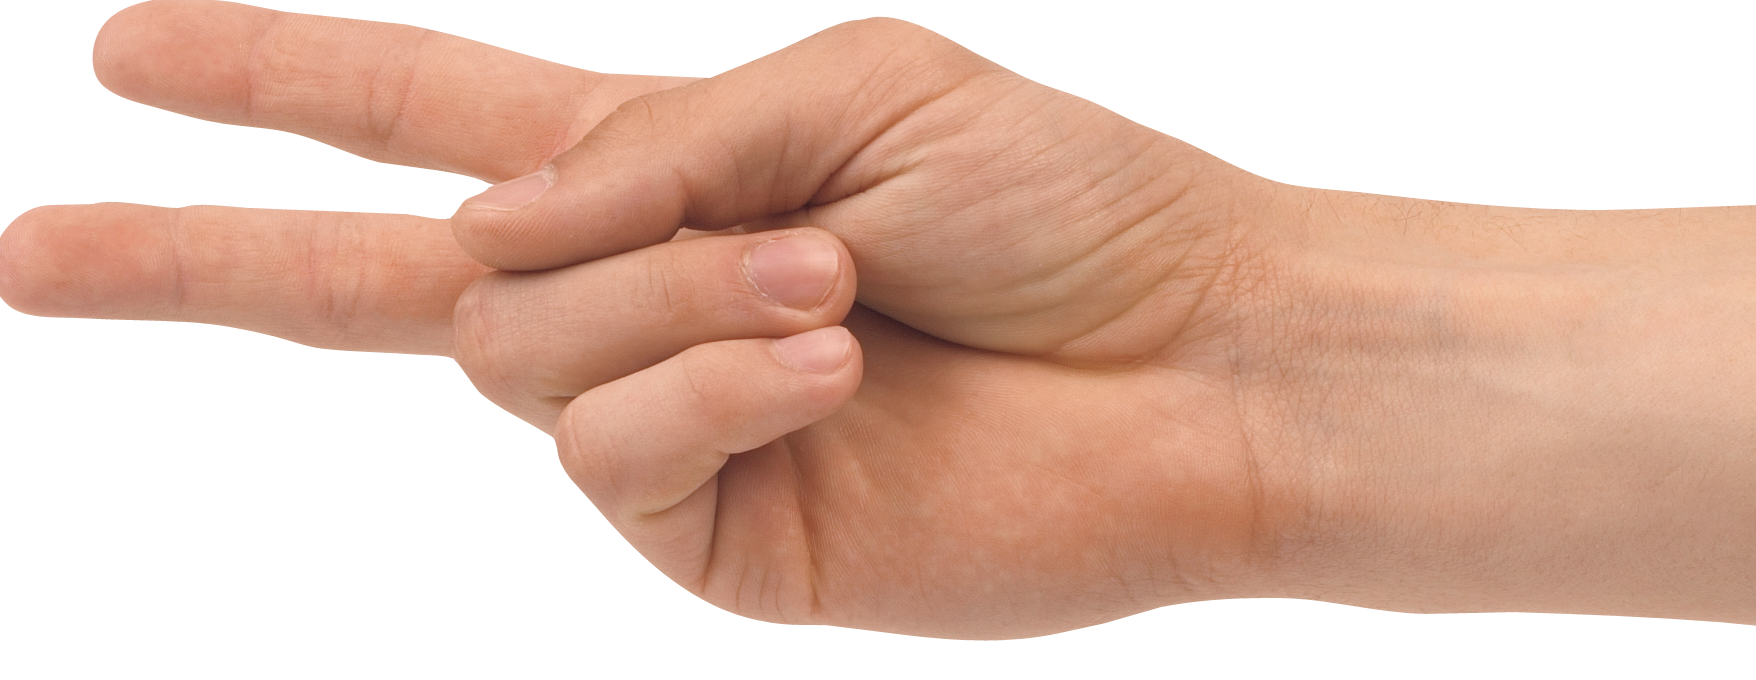
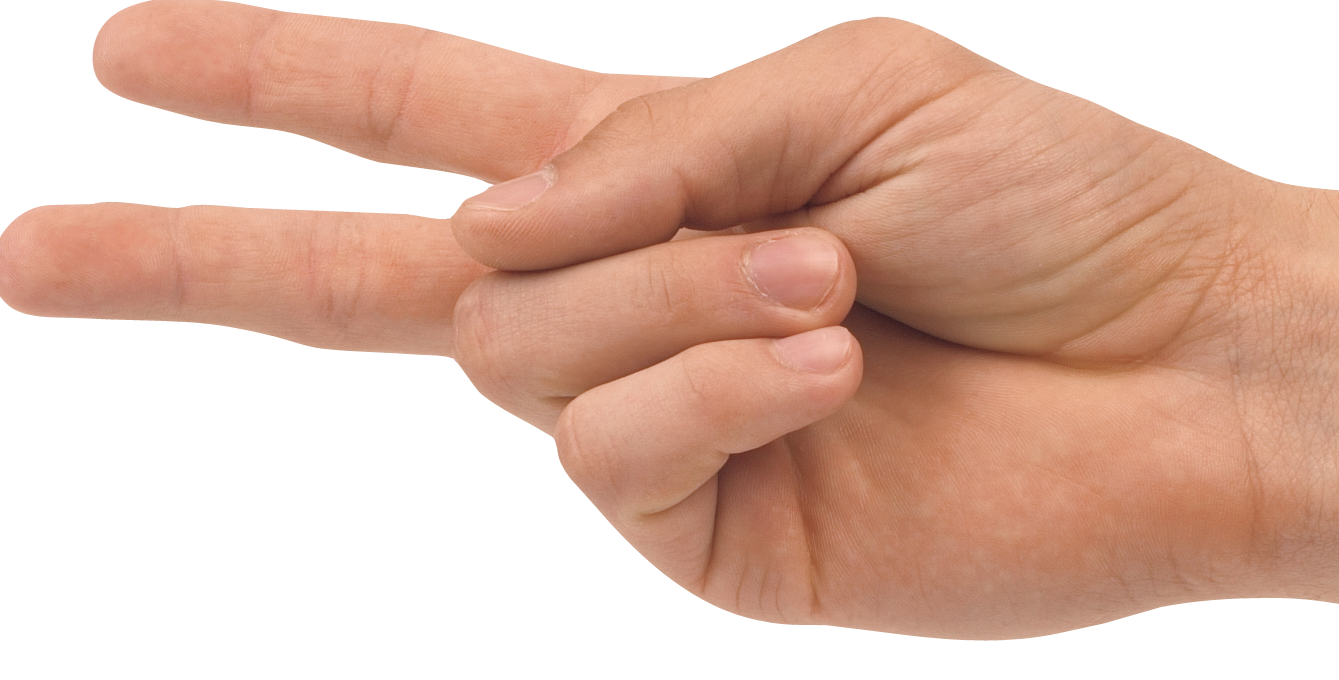
add and replace an image, styles to the content area

diff --git a/index.html b/index.html
@@ -10,7 +10,16 @@
     <title>Rock Paper Game</title>
 </head>
 <body>
-    <h1>ROCK PAPER SCISSORS</h1>
+    <div id="content">
+        <h1>ROCK PAPER SCISSORS</h1>
+        <div class="rock-photo">
+            <img src="assets/images/fingers.png" alt="two finger gesture">
+            <img src="assets/images/hand-two-fingers.png" alt ="finger gesture">
+        </div>
+        <div></div>
+        <div></div>
+
+    </div>
     <script src="assets/js/script.js"></script>
 </body>
 </html>

diff --git a/assets/css/style.css b/assets/css/style.css
@@ -1,2 +1,21 @@
 @import url('https://fonts.googleapis.com/css2?family=Montserrat:wght@200;300;400;500&display=swap');
 
+#content{
+    margin:auto;
+    width:auto;
+    height:500px;
+    width:800px;
+    background-color: aqua;
+}
+
+h1{
+    font-family: montserrat, Arial, Helvetica, sans-serif;
+    text-align: center;
+}
+
+.rock-photo img{
+    height:150px;
+    width:auto;
+    column-count: 2;
+
+}
